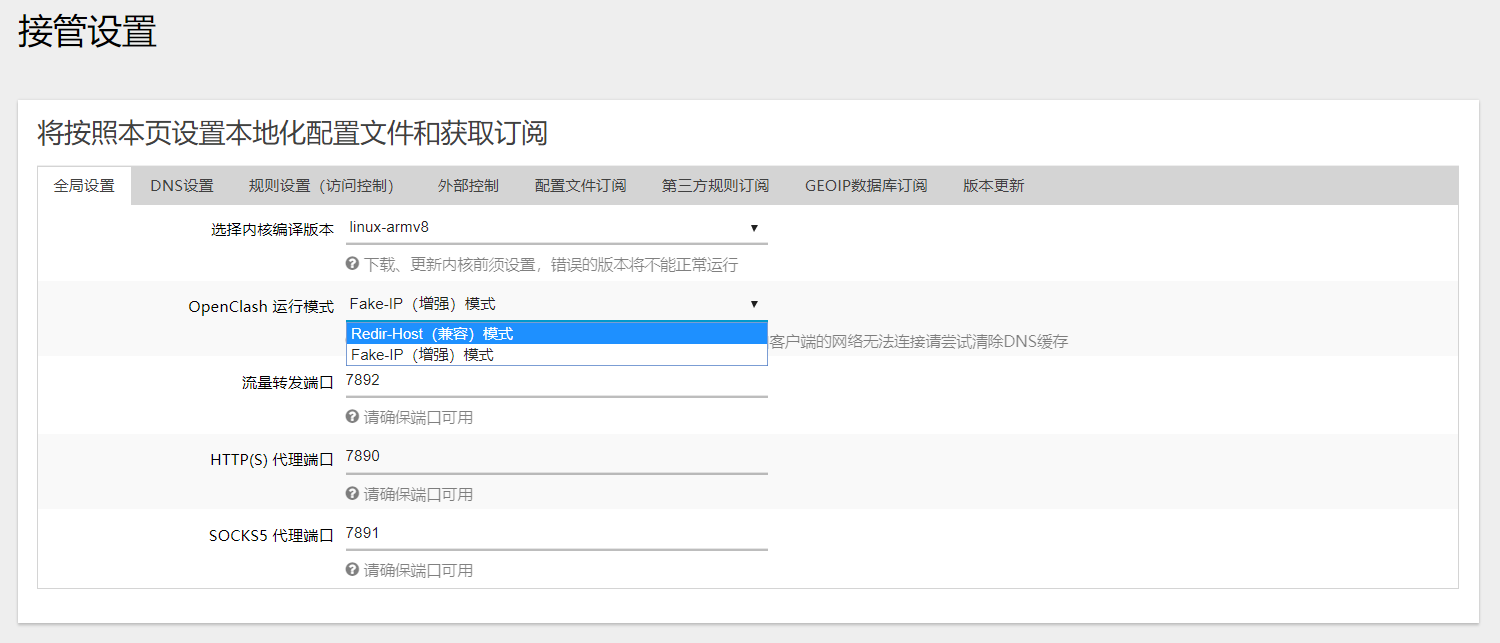
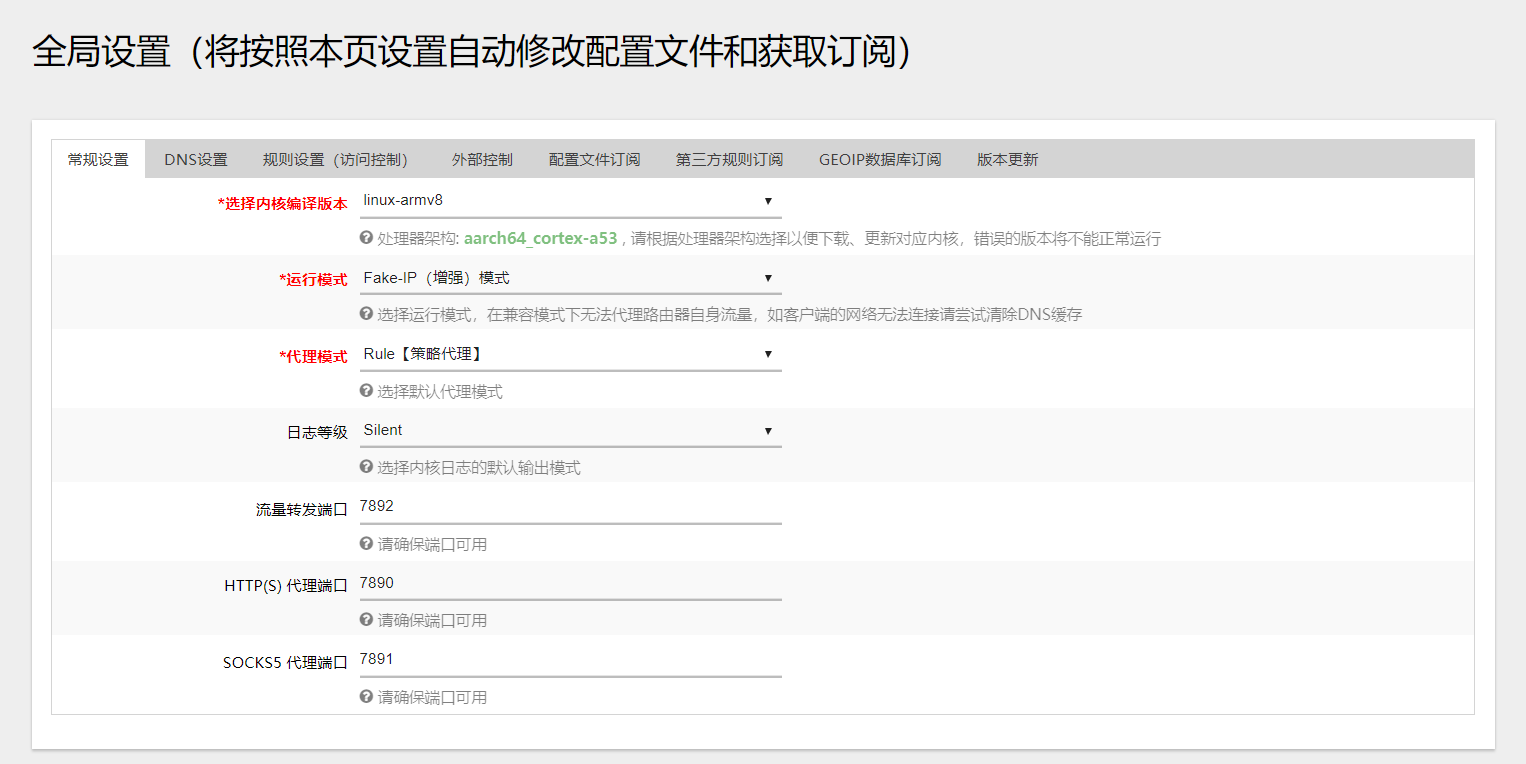
v0.35.0-beta

Changed region(s): [[0.0, 0.1555, 0.9813, 0.9331], [0.0, 0.0, 0.6133, 0.0933], [0.0, 0.9642, 0.9813, 0.9953]]

diff --git a/luci-app-openclash/files/usr/lib/lua/luci/view/openclash/server_list.htm b/luci-app-openclash/files/usr/lib/lua/luci/view/openclash/server_list.htm
@@ -1,0 +1,32 @@
+<%#
+ Copyright 2018-2019 Lienol <lawlienol@gmail.com>
+ Licensed to the public under the Apache License 2.0.
+-%>
+
+<%
+local dsp = require "luci.dispatcher"
+-%>
+
+<script type="text/javascript">
+	//<![CDATA[
+	var pings = document.getElementsByClassName('pingtime');
+	for(var i = 0; i < pings.length; i++) {
+		XHR.get('<%=dsp.build_url("admin", "services", "openclash", "ping")%>', {
+				index: i,
+				domain: pings[i].getAttribute("hint")
+			},
+			function(x, result) {
+				pings[result.index].innerHTML = (result.ping ? "<b><font color=green>"+result.ping+"</font></b> ms" : "<b><font color=red><%: 检测失败 %></font></b>");
+			}
+		);
+		XHR.poll(10,'<%=dsp.build_url("admin", "services", "openclash", "ping")%>',{
+				index: i,
+				domain: pings[i].getAttribute("hint")
+			},
+			function(x, result) {
+				pings[result.index].innerHTML = (result.ping ? "<b><font color=green>"+result.ping+"</font></b> ms" : "<b><font color=red><%: 检测失败 %></font></b>");
+			}
+		);
+	}
+	//]]>
+</script>

diff --git a/luci-app-openclash/files/usr/lib/lua/luci/view/openclash/status.htm b/luci-app-openclash/files/usr/lib/lua/luci/view/openclash/status.htm
@@ -114,7 +114,7 @@
     
     function telegrampage()
     {
-        url6='https://telegram.clash.dev';
+        url6='https://t.me/joinchat/D4mVX0n-n5mOK6YO_W3_Og';
         window.open(url6);
     }
     

diff --git a/luci-app-openclash/files/usr/lib/lua/luci/view/openclash/ping.htm b/luci-app-openclash/files/usr/lib/lua/luci/view/openclash/ping.htm
@@ -1,0 +1,3 @@
+<%+cbi/valueheader%>
+<span class="pingtime" hint="<%=self:cfgvalue(section)%>">-- ms</span>
+<%+cbi/valuefooter%>

diff --git a/README.md b/README.md
@@ -5,14 +5,14 @@
 </h1>
 
   <p align="center">
-	<a target="_blank" href="https://github.com/Dreamacro/clash/releases/tag/v0.15.0">
-    <img src="https://img.shields.io/badge/Clash-v0.15.0-blue.svg">
+	<a target="_blank" href="https://github.com/Dreamacro/clash/releases/tag/v0.16.0">
+    <img src="https://img.shields.io/badge/Clash-v0.16.0-blue.svg">
   </a>
-  <a target="_blank" href="https://github.com/vernesong/OpenClash/tree/v0.34.7-beta">
-    <img src="https://img.shields.io/badge/source code-v0.34.7--beta-green.svg">
+  <a target="_blank" href="https://github.com/vernesong/OpenClash/tree/v0.35.0-beta">
+    <img src="https://img.shields.io/badge/source code-v0.35.0--beta-green.svg">
   </a>
-  <a target="_blank" href="https://github.com/vernesong/OpenClash/releases/tag/v0.34.7-beta">
-    <img src="https://img.shields.io/badge/New Release-v0.34.7--beta-orange.svg">
+  <a target="_blank" href="https://github.com/vernesong/OpenClash/releases/tag/v0.35.0-beta">
+    <img src="https://img.shields.io/badge/New Release-v0.35.0--beta-orange.svg">
   </a>
   </p>
   
@@ -21,7 +21,7 @@
 本插件是一个可运行在 OpenWrt 上的<a href="https://github.com/Dreamacro/clash" target="_blank"> Clash </a>客户端
 </p>
 <p align="center">
-兼容 Shadowsocks、Vmess 等协议，根据灵活的规则配置实现策略代理
+兼容 Shadowsocks、Vmess、Snell 等协议，根据灵活的规则配置实现策略代理
 </p>
 <p align="center">
 - 感谢<a href="https://github.com/frainzy1477" target="_blank"> frainzy1477 </a>，本插件基于<a href="https://github.com/frainzy1477/luci-app-clash" target="_blank"> Luci For Clash </a>进行二次开发 -
@@ -125,9 +125,14 @@ make package/luci-app-openclash/luci-app-openclash/compile V=99
     <img src="https://github.com/vernesong/OpenClash/raw/master/img/state.png">
 </p>
 
-* 接管设置
+* 全局设置
 <p align="center">
     <img src="https://github.com/vernesong/OpenClash/raw/master/img/settings.png">
+</p>
+
+* 服务器&策略组
+<p align="center">
+    <img src="https://github.com/vernesong/OpenClash/raw/master/img/servers.png">
 </p>
 
 * 配置文件
